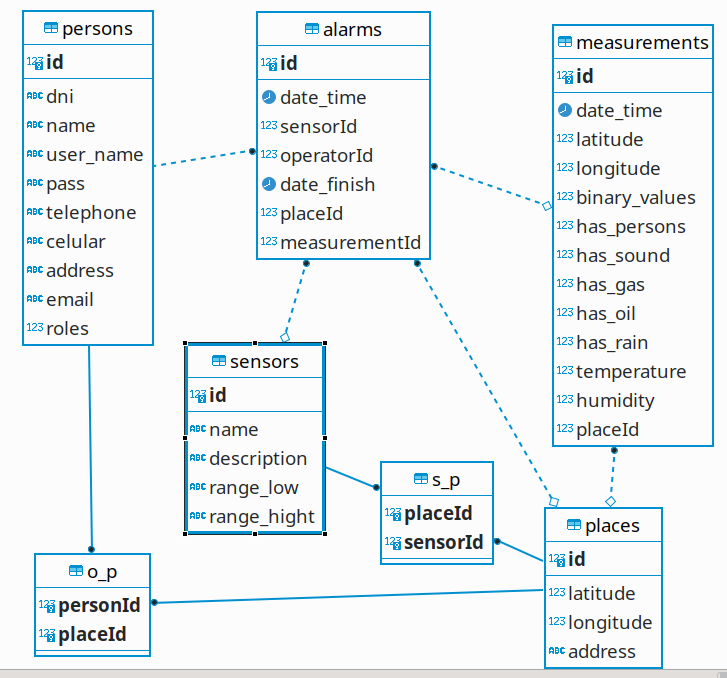
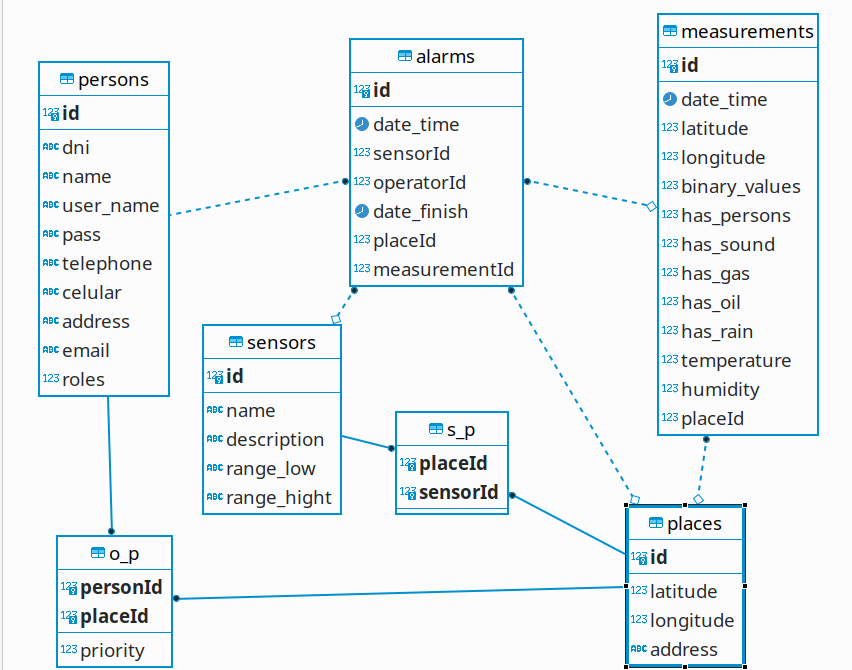
feat: show table of places and return the people of each place in the call

diff --git a/server/front/TFGscada-app/src/app/features/dashboard/modules/users/users.component.ts b/server/front/TFGscada-app/src/app/features/dashboard/modules/users/users.component.ts
@@ -1,7 +1,6 @@
 import { Component, ElementRef, OnInit, ViewChild } from '@angular/core'
 import { UsersService } from './users.service';
 
-
 import { usersConfig, dialogConfig } from './users.config';
 import { IUser, RoleText } from './users-interfaces';
 import { TableComponent } from 'src/app/shared/component/table/table.component';
@@ -63,7 +62,6 @@ export class UsersComponent implements OnInit {
   read_prop(obj: any, id: any) {
     if (id != undefined)
       return obj[id];
-    console.log('fallo al leer la propiedad');
     return undefined;
   }
 
@@ -76,8 +74,6 @@ export class UsersComponent implements OnInit {
     const dialogRef = this.dialog.open(DialogComponent, {
       data: this.dialogConfig,
     });
-
-
 
     dialogRef.afterClosed().subscribe(async result => {
       if (result != '') {
@@ -92,7 +88,6 @@ export class UsersComponent implements OnInit {
             user['roles'] = this.roleText.indexOf(result[keys[i]]);
           }
         }
-
         if (this.tableUsers != undefined) {
           let table = this.tableUsers as unknown as TableComponent;
           table.dataSource.filterPredicate = (data: IUser, filter: string) => {
@@ -115,9 +110,6 @@ export class UsersComponent implements OnInit {
         }
       }
     });
-
-
-
   }
 
   clearFilter($event: any) {
@@ -135,7 +127,6 @@ export class UsersComponent implements OnInit {
     const dialogRef = this.dialog.open(DialogComponent, {
       data: this.dialogConfig,
     });
-
     dialogRef.afterClosed().subscribe(result => {
       if (result != '') {
         // save the row
@@ -171,7 +162,6 @@ export class UsersComponent implements OnInit {
         const dialogRef = this.dialog.open(DialogComponent, {
           data: this.dialogConfig,
         });
-
         dialogRef.afterClosed().subscribe(async result => {
           if (result != '') {
             // save the row
@@ -212,8 +202,6 @@ export class UsersComponent implements OnInit {
           data: this.dialogConfig,
         });
         break;
-
     }
   }
-
 }

diff --git a/server/front/TFGscada-app/src/app/features/dashboard/modules/places/places.component.ts b/server/front/TFGscada-app/src/app/features/dashboard/modules/places/places.component.ts
@@ -3,7 +3,7 @@ import { MatTabsModule } from '@angular/material/tabs';
 import { PlacesService } from './places.service';
 import { placesConfig, dialogConfig } from './places.config';
 import { IPlace } from './places-interfaces';
-import { TableComponent } from 'src/app/shared/component/table/table.component';
+import { FormControl } from '@angular/forms';
 
 
 @Component({
@@ -19,7 +19,20 @@ export class PlacesComponent implements OnInit {
   constructor(public placesService: PlacesService,
     matTab: MatTabsModule,) { }
 
+  selected = new FormControl(0);
+  tabs = ['Datos', 'Mapa', 'Lugar'];
+
+  addTab(selectAfterAdding: boolean) {
+    //this.tabs.push('New');
+
+    //if (selectAfterAdding) {
+    this.selected.setValue(this.tabs.length - 1);
+    //}
+  }
+
   ngOnInit(): void {
+    this.fetchPlaces();
+    this.selected.setValue(1);
   }
 
   fetchPlaces() {
@@ -27,6 +40,7 @@ export class PlacesComponent implements OnInit {
       next: (response: any) => {
         console.log('respuesta: ', response);
         this.placesDate = response.data;
+        console.log('lugares', this.placesDate);
         /*this.usersDate.forEach(user => {
           if (user.roles < this.roleText.length)
             user.roleText = this.roleText[user.roles];

diff --git a/server/back/back/src/api/places/places-service.js b/server/back/back/src/api/places/places-service.js
@@ -1,9 +1,23 @@
 const { BaseService } = require("../base/base-service");
-
+import { sequelize } from "../../database/database";
 
 class PlaceService extends BaseService {
 
-
+    get = async function (req, res) {
+        let ret = await this.repository.get(req, res, sequelize.model('persons'));
+        for (let i = 0; i < ret.length; i++) {
+            for (let i2 = 0; i2 < ret[i].dataValues.persons.length; i2++) {
+                delete ret[i].dataValues.persons[i2].dataValues.pass;
+                delete ret[i].dataValues.persons[i2].dataValues.user_name;
+                delete ret[i].dataValues.persons[i2].dataValues.address;
+                delete ret[i].dataValues.persons[i2].dataValues.roles;
+                delete ret[i].dataValues.persons[i2].dataValues.id;
+                delete ret[i].dataValues.persons[i2].dataValues.dni;
+                delete ret[i].dataValues.persons[i2].dataValues.o_p.dataValues.personId;
+            }
+        }
+        return ret;
+    }
 
 }
 

diff --git a/server/front/TFGscada-app/src/app/features/dashboard/modules/places/places.component.html b/server/front/TFGscada-app/src/app/features/dashboard/modules/places/places.component.html
@@ -1,11 +1,9 @@
-<mat-tab-group animationDuration="0ms">
-    <mat-tab label="Datos"> Datos
-        <!--
+<mat-tab-group animationDuration="0ms" [selectedIndex]="selected.value">
+    <mat-tab [label]="this.tabs[0]">
         <app-table #tablePlaces [config]="placesConfig" [data]="placesDate" [isLoadingTable]="false"
             (action)="tableEvent($event)">
         </app-table>
--->
     </mat-tab>
-    <mat-tab label="Mapa"> Mapa </mat-tab>
-    <mat-tab label="Lugar"> Lugar </mat-tab>
+    <mat-tab [label]="this.tabs[1]"> Mapa </mat-tab>
+    <mat-tab [label]="this.tabs[2]"> Lugar </mat-tab>
 </mat-tab-group>

diff --git a/server/back/back/src/api/base/base-repository.js b/server/back/back/src/api/base/base-repository.js
@@ -41,9 +41,11 @@ class BaseRepository {
         return await Sequelize.transaction();
     }
 
-    async get(req, res, transaction = undefined) {
+    async get(req, res, include = undefined, transaction = undefined) {
         try {
             let params = { where: this.validateParams(req.query) };
+            if (include != undefined)
+                params.include = include;
             if (transaction != undefined)
                 params.transaction = transaction;
             const rows = await this.model.findAll(params);

diff --git a/server/back/back/src/api/o_p/o_p-model.js b/server/back/back/src/api/o_p/o_p-model.js
@@ -3,19 +3,9 @@ import { sequelize } from "../../database/database"; // importamos la cadena de 
 
 
 const O_P = sequelize.define('o_p', {
-    /*latitude: {
+    priority: {
         type: Sequelize.INTEGER,
-        primaryKey: true,
     },
-    longitude: {
-        type: Sequelize.INTEGER,
-        primaryKey: true,
-    },
-    dni: {
-        type: Sequelize.STRING,
-        primaryKey: true
-    }
-    */
 }, {
     timestamps: false
 });

diff --git a/server/front/TFGscada-app/src/app/features/dashboard/modules/places/places.service.ts b/server/front/TFGscada-app/src/app/features/dashboard/modules/places/places.service.ts
@@ -13,7 +13,7 @@ import { IPlace } from './places-interfaces';
   providedIn: 'root'
 })
 export class PlacesService {
-  apiUrl = 'http://localhost:3000/api/persons';
+  apiUrl = 'http://localhost:3000/api/places';
 
   constructor(private http: HttpClient) { }
 
